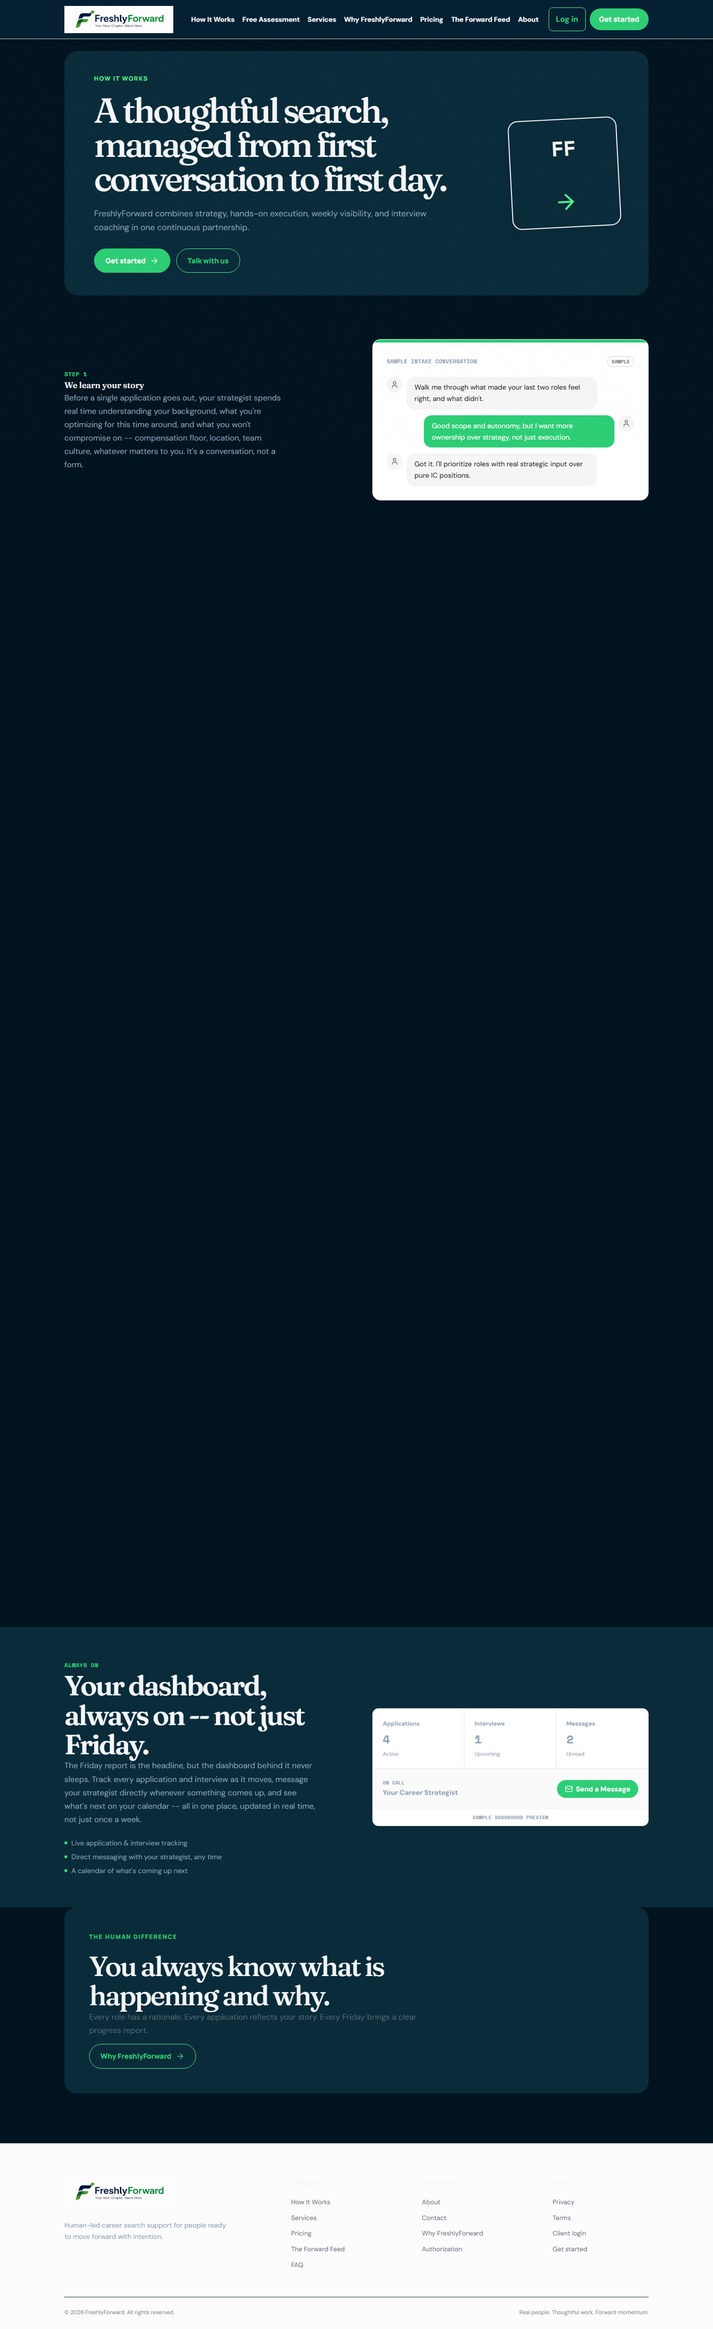
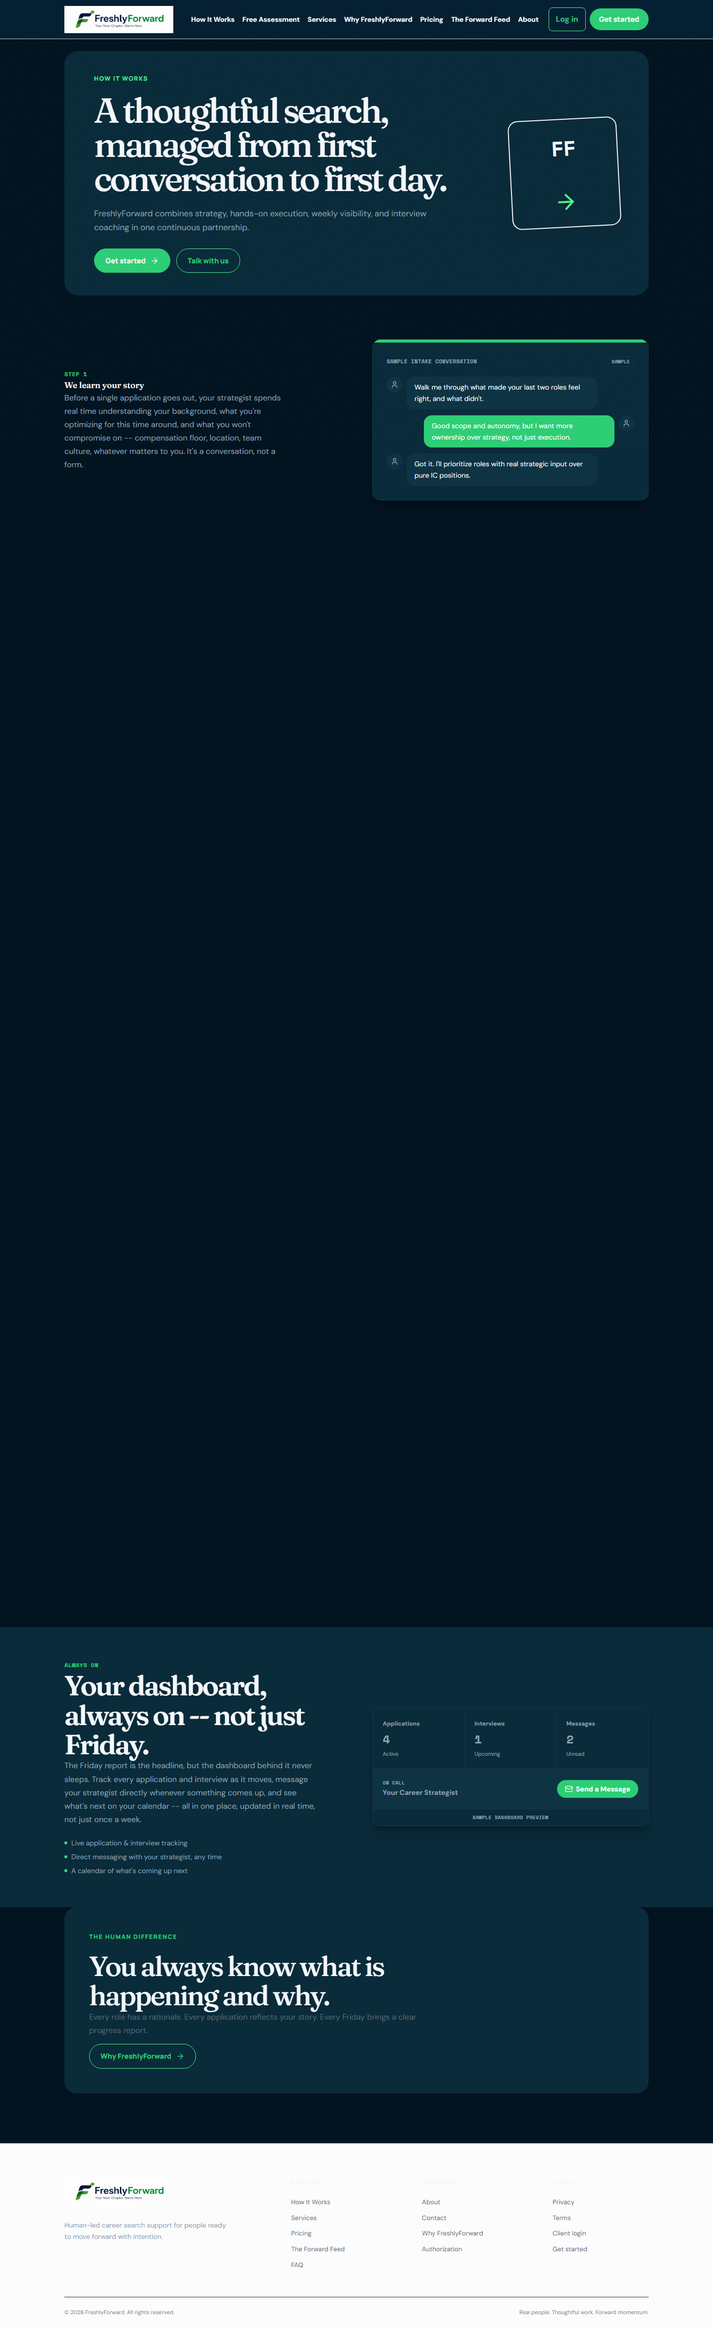
refactor(design-system): migrate preview-card family and misc components to semantic tokens (Task 16)

Changed region(s): [[0.5, 0.125, 0.9375, 0.2187], [0.5, 0.7186, 0.9375, 0.7811]]

diff --git a/src/components/FridayReportCard.tsx b/src/components/FridayReportCard.tsx
@@ -50,36 +50,36 @@ export function FridayReportCard({ report, isSample = false }: FridayReportCardP
   const statusLabel = STATUS_LABEL[report.approval_status] ?? report.approval_status
 
   return (
-    <div className="overflow-hidden rounded-2xl border border-neutral-200 bg-white shadow-xl shadow-neutral-900/5">
+    <div className="overflow-hidden rounded-2xl border border-border bg-surface-card shadow-xl shadow-black/20">
       <div className="h-1.5 bg-primary-600" aria-hidden="true" />
       <div className="p-6 sm:p-7">
         <div className="flex items-center justify-between">
-          <p className="font-mono text-[11px] font-semibold uppercase tracking-wide text-primary-700">
+          <p className="font-mono text-[11px] font-semibold uppercase tracking-wide text-primary-400">
             Friday Report
           </p>
           {isSample && (
-            <span className="rounded-full border border-neutral-300 px-2 py-0.5 font-mono text-[10px] font-semibold uppercase text-neutral-500">
+            <span className="rounded-full border border-border px-2 py-0.5 font-mono text-[10px] font-semibold uppercase text-ink-muted">
               Sample
             </span>
           )}
         </div>
-        <p className="mt-1 font-mono text-xs text-neutral-500">{formatReportDate(report.report_date)}</p>
+        <p className="mt-1 font-mono text-xs text-ink-muted">{formatReportDate(report.report_date)}</p>
 
-        <h3 className="mt-4 font-display text-xl font-semibold leading-snug text-neutral-900">
+        <h3 className="mt-4 font-display text-xl font-semibold leading-snug text-ink">
           {report.title}
         </h3>
-        <p className="mt-2 text-sm leading-relaxed text-neutral-600">{report.summary}</p>
+        <p className="mt-2 text-sm leading-relaxed text-ink-muted">{report.summary}</p>
 
-        <div className="mt-6 grid grid-cols-3 gap-3 border-t border-neutral-100 pt-5">
+        <div className="mt-6 grid grid-cols-3 gap-3 border-t border-border pt-5">
           <Stat icon={Search} label="Reviewed" value={report.opportunities_reviewed} />
           <Stat icon={FileCheck} label="Submitted" value={report.applications_submitted} />
           <Stat icon={Calendar} label="Interviews" value={report.interviews_scheduled} />
         </div>
 
-        <div className="mt-6 border-t border-neutral-100 pt-5">
+        <div className="mt-6 border-t border-border pt-5">
           <div className="flex items-center justify-between">
-            <p className="text-xs font-semibold uppercase tracking-wide text-neutral-500">Next Steps</p>
-            <span className="flex items-center gap-1.5 font-mono text-[10px] font-semibold uppercase text-primary-700">
+            <p className="text-xs font-semibold uppercase tracking-wide text-ink-muted">Next Steps</p>
+            <span className="flex items-center gap-1.5 font-mono text-[10px] font-semibold uppercase text-primary-400">
               <span className="h-1.5 w-1.5 rounded-full bg-primary-500" aria-hidden="true" />
               {statusLabel}
             </span>
@@ -87,14 +87,14 @@ export function FridayReportCard({ report, isSample = false }: FridayReportCardP
           {steps.length > 0 ? (
             <ul className="mt-3 space-y-2">
               {steps.map((step, index) => (
-                <li key={`${index}-${step}`} className="flex items-start gap-2.5 text-sm text-neutral-700">
+                <li key={`${index}-${step}`} className="flex items-start gap-2.5 text-sm text-ink">
                   <ArrowRight className="mt-0.5 h-3.5 w-3.5 flex-shrink-0 text-primary-500" aria-hidden="true" />
                   {step}
                 </li>
               ))}
             </ul>
           ) : (
-            <p className="mt-3 text-sm text-neutral-500">No next steps recorded yet.</p>
+            <p className="mt-3 text-sm text-ink-muted">No next steps recorded yet.</p>
           )}
         </div>
       </div>
@@ -114,8 +114,8 @@ function Stat({
   return (
     <div className="flex flex-col items-start gap-1">
       <Icon className="h-4 w-4 text-primary-600" aria-hidden="true" />
-      <p className="font-mono text-2xl font-bold leading-none text-neutral-900">{value}</p>
-      <p className="text-[11px] text-neutral-500">{label}</p>
+      <p className="font-mono text-2xl font-bold leading-none text-ink">{value}</p>
+      <p className="text-[11px] text-ink-muted">{label}</p>
     </div>
   )
 }

diff --git a/src/pages/HowItWorksPage.tsx b/src/pages/HowItWorksPage.tsx
@@ -147,17 +147,17 @@ export function HowItWorksPage() {
               <li className="flex items-center gap-2"><span className="h-1.5 w-1.5 rounded-full bg-primary-500" aria-hidden="true" /> A calendar of what's coming up next</li>
             </ul>
           </div>
-          <div className="overflow-hidden rounded-xl border border-neutral-200 bg-white shadow-sm">
-            <div className="grid grid-cols-3 divide-x divide-neutral-200">
-              <div className="p-5"><p className="text-xs font-semibold text-neutral-500">Applications</p><p className="mt-2 font-mono text-2xl font-bold text-neutral-900">4</p><p className="mt-1 text-[11px] text-neutral-500">Active</p></div>
-              <div className="p-5"><p className="text-xs font-semibold text-neutral-500">Interviews</p><p className="mt-2 font-mono text-2xl font-bold text-neutral-900">1</p><p className="mt-1 text-[11px] text-neutral-500">Upcoming</p></div>
-              <div className="p-5"><p className="text-xs font-semibold text-neutral-500">Messages</p><p className="mt-2 font-mono text-2xl font-bold text-neutral-900">2</p><p className="mt-1 text-[11px] text-neutral-500">Unread</p></div>
+          <div className="overflow-hidden rounded-xl border border-border bg-surface-card shadow-xl shadow-black/20">
+            <div className="grid grid-cols-3 divide-x divide-border">
+              <div className="p-5"><p className="text-xs font-semibold text-ink-muted">Applications</p><p className="mt-2 font-mono text-2xl font-bold text-ink">4</p><p className="mt-1 text-[11px] text-ink-muted">Active</p></div>
+              <div className="p-5"><p className="text-xs font-semibold text-ink-muted">Interviews</p><p className="mt-2 font-mono text-2xl font-bold text-ink">1</p><p className="mt-1 text-[11px] text-ink-muted">Upcoming</p></div>
+              <div className="p-5"><p className="text-xs font-semibold text-ink-muted">Messages</p><p className="mt-2 font-mono text-2xl font-bold text-ink">2</p><p className="mt-1 text-[11px] text-ink-muted">Unread</p></div>
             </div>
-            <div className="flex items-center justify-between border-t border-neutral-200 bg-neutral-50 p-5">
-              <div><p className="font-mono text-[10px] font-semibold uppercase tracking-wide text-neutral-500">On Call</p><p className="mt-1 text-sm font-semibold text-neutral-900">Your Career Strategist</p></div>
+            <div className="flex items-center justify-between border-t border-border bg-surface-subtle p-5">
+              <div><p className="font-mono text-[10px] font-semibold uppercase tracking-wide text-ink-muted">On Call</p><p className="mt-1 text-sm font-semibold text-ink">Your Career Strategist</p></div>
               <span className="inline-flex items-center justify-center gap-1.5 rounded-full bg-primary-600 px-4 py-2 text-sm font-semibold text-white"><Mail className="h-4 w-4" aria-hidden="true" /> Send a Message</span>
             </div>
-            <p className="border-t border-neutral-100 px-5 py-2 text-center font-mono text-[10px] font-semibold uppercase tracking-wide text-neutral-400">Sample dashboard preview</p>
+            <p className="border-t border-border px-5 py-2 text-center font-mono text-[10px] font-semibold uppercase tracking-wide text-ink-muted">Sample dashboard preview</p>
           </div>
         </div>
       </section>

diff --git a/src/components/freshFit/FreshFitDetails.tsx b/src/components/freshFit/FreshFitDetails.tsx
@@ -27,19 +27,19 @@ export function FreshFitDetails({ breakdown }: { breakdown: JobMatchScoreBreakdo
 
   return (
     <details className="mt-3">
-      <summary className="cursor-pointer text-sm font-medium text-primary-600 hover:underline">
+      <summary className="cursor-pointer text-sm font-medium text-primary-400 hover:underline">
         Why this score?
       </summary>
-      <div className="mt-3 space-y-4 border-t border-neutral-100 pt-3">
+      <div className="mt-3 space-y-4 border-t border-border pt-3">
         <div>
-          <p className="text-sm font-semibold text-neutral-900">{v2.recommendation.headline}</p>
-          <p className="text-xs text-neutral-500">{v2.recommendation.detail}</p>
+          <p className="text-sm font-semibold text-ink">{v2.recommendation.headline}</p>
+          <p className="text-xs text-ink-muted">{v2.recommendation.detail}</p>
         </div>
 
         {blockedConstraints.length > 0 && (
-          <div className="border border-warning-300 bg-warning-50 p-3">
-            <p className="text-xs font-semibold uppercase tracking-wide text-warning-700">Worth reading first</p>
-            <ul className="mt-1 space-y-1 text-xs text-warning-800">
+          <div className="border border-warning-600 bg-warning-950 p-3">
+            <p className="text-xs font-semibold uppercase tracking-wide text-warning-300">Worth reading first</p>
+            <ul className="mt-1 space-y-1 text-xs text-warning-200">
               {blockedConstraints.map((c) => (
                 <li key={c.key}>{c.reason}</li>
               ))}
@@ -51,17 +51,17 @@ export function FreshFitDetails({ breakdown }: { breakdown: JobMatchScoreBreakdo
           {v2.dimensions.map((dim) => (
             <div key={dim.key}>
               <div className="flex items-center justify-between gap-2">
-                <p className="text-xs font-semibold text-neutral-700">{dim.label}</p>
-                <span className="text-xs text-neutral-500">{STATUS_LABELS[dim.status] ?? dim.status}</span>
+                <p className="text-xs font-semibold text-ink-muted">{dim.label}</p>
+                <span className="text-xs text-ink-muted">{STATUS_LABELS[dim.status] ?? dim.status}</span>
               </div>
-              <p className="mt-0.5 text-xs text-neutral-500">{dim.explanation}</p>
+              <p className="mt-0.5 text-xs text-ink-muted">{dim.explanation}</p>
               {dim.gaps.length > 0 && (
-                <p className="mt-1 text-xs text-neutral-600">
+                <p className="mt-1 text-xs text-ink-muted">
                   <span className="font-medium">Confirmed gaps:</span> {dim.gaps.join(', ')}
                 </p>
               )}
               {dim.unknowns.length > 0 && (
-                <p className="mt-1 text-xs text-neutral-400">
+                <p className="mt-1 text-xs text-ink-muted">
                   <span className="font-medium">Not enough info to confirm:</span> {dim.unknowns.join(', ')}
                 </p>
               )}

diff --git a/src/components/SearchReadinessWidget.tsx b/src/components/SearchReadinessWidget.tsx
@@ -14,12 +14,12 @@ export function SearchReadinessWidget({ profile }: { profile: MemberProfile | nu
   const fixLink = useMemo(() => getReadinessFixLink(missing), [missing])
 
   return (
-    <div className="border border-neutral-200 bg-white p-6">
-      <div className="flex items-center gap-3 border-b border-neutral-100 pb-3">
+    <div className="border border-border bg-surface-card p-6">
+      <div className="flex items-center gap-3 border-b border-border pb-3">
         <TrendingUp className="h-5 w-5 text-primary-600" />
         <div>
-          <h3 className="font-serif text-base font-semibold text-neutral-900">Search Readiness</h3>
-          <p className="text-xs text-neutral-500">Profile completeness</p>
+          <h3 className="font-serif text-base font-semibold text-ink">Search Readiness</h3>
+          <p className="text-xs text-ink-muted">Profile completeness</p>
         </div>
       </div>
 
@@ -31,16 +31,16 @@ export function SearchReadinessWidget({ profile }: { profile: MemberProfile | nu
       {/* Missing items */}
       {missing.length > 0 ? (
         <div className="mt-6">
-          <p className="mb-3 text-xs font-semibold text-neutral-700">Complete these to improve your readiness:</p>
+          <p className="mb-3 text-xs font-semibold text-ink-muted">Complete these to improve your readiness:</p>
           <ul className="space-y-2">
             {missing.slice(0, 5).map((item) => (
-              <li key={item.field} className="flex items-start gap-2 text-sm text-neutral-600">
+              <li key={item.field} className="flex items-start gap-2 text-sm text-ink-muted">
                 <AlertCircle className="mt-0.5 h-4 w-4 flex-shrink-0 text-warning-500" />
                 <span>{item.label}</span>
               </li>
             ))}
             {missing.length > 5 && (
-              <li className="text-xs text-neutral-400">+ {missing.length - 5} more</li>
+              <li className="text-xs text-ink-muted">+ {missing.length - 5} more</li>
             )}
           </ul>
           <Link
@@ -52,9 +52,9 @@ export function SearchReadinessWidget({ profile }: { profile: MemberProfile | nu
           </Link>
         </div>
       ) : (
-        <div className="mt-6 flex items-center gap-2 border border-success-300 bg-success-50 p-3">
-          <Check className="h-5 w-5 text-success-600" />
-          <p className="text-sm text-success-700">Your profile is complete. Your Strategist has everything needed.</p>
+        <div className="mt-6 flex items-center gap-2 border border-success-600 bg-success-950 p-3">
+          <Check className="h-5 w-5 text-success-400" />
+          <p className="text-sm text-success-300">Your profile is complete. Your Strategist has everything needed.</p>
         </div>
       )}
     </div>

diff --git a/src/components/OpportunityPreviewCard.tsx b/src/components/OpportunityPreviewCard.tsx
@@ -3,8 +3,8 @@ import { Sparkles } from 'lucide-react'
 export type OpportunityStatus = 'reviewed' | 'submitted'
 
 const STATUS_CONFIG: Record<OpportunityStatus, { label: string; className: string }> = {
-  reviewed: { label: 'Reviewed', className: 'bg-neutral-100 text-neutral-700' },
-  submitted: { label: 'Submitted', className: 'bg-primary-50 text-primary-700' },
+  reviewed: { label: 'Reviewed', className: 'bg-surface-subtle text-ink-muted' },
+  submitted: { label: 'Submitted', className: 'bg-primary-950 text-primary-300' },
 }
 
 export interface OpportunityPreviewCardProps {
@@ -22,27 +22,27 @@ export function OpportunityPreviewCard({ role, company, location, fitNote, statu
   const config = STATUS_CONFIG[status]
 
   return (
-    <div className="overflow-hidden rounded-2xl border border-neutral-200 bg-white shadow-xl shadow-neutral-900/5">
+    <div className="overflow-hidden rounded-2xl border border-border bg-surface-card shadow-xl shadow-black/20">
       <div className="h-1.5 bg-primary-600" aria-hidden="true" />
       <div className="p-6 sm:p-7">
         <div className="flex items-center justify-between">
-          <p className="font-mono text-[11px] font-semibold uppercase tracking-wide text-primary-700">Opportunity</p>
-          <span className="rounded-full border border-neutral-300 px-2 py-0.5 font-mono text-[10px] font-semibold uppercase text-neutral-500">
+          <p className="font-mono text-[11px] font-semibold uppercase tracking-wide text-primary-400">Opportunity</p>
+          <span className="rounded-full border border-border px-2 py-0.5 font-mono text-[10px] font-semibold uppercase text-ink-muted">
             Sample
           </span>
         </div>
 
-        <h3 className="mt-4 font-display text-xl font-semibold leading-snug text-neutral-900">{role}</h3>
-        <p className="mt-1 text-sm text-neutral-500">
+        <h3 className="mt-4 font-display text-xl font-semibold leading-snug text-ink">{role}</h3>
+        <p className="mt-1 text-sm text-ink-muted">
           {company} &middot; {location}
         </p>
 
-        <div className="mt-5 flex items-start gap-2.5 rounded-xl bg-neutral-50 p-4 text-sm text-neutral-700">
+        <div className="mt-5 flex items-start gap-2.5 rounded-xl bg-surface-subtle p-4 text-sm text-ink">
           <Sparkles className="mt-0.5 h-4 w-4 flex-shrink-0 text-primary-600" aria-hidden="true" />
           <p>{fitNote}</p>
         </div>
 
-        <div className="mt-5 flex items-center border-t border-neutral-100 pt-5">
+        <div className="mt-5 flex items-center border-t border-border pt-5">
           <span
             className={`inline-flex items-center gap-1.5 rounded-full px-3 py-1 font-mono text-[11px] font-semibold uppercase ${config.className}`}
           >

diff --git a/src/components/ProfileEditForm.tsx b/src/components/ProfileEditForm.tsx
@@ -64,7 +64,7 @@ export function ProfileEditForm({ profile, onSave, onCancel, focusSection }: Pro
   return (
     <div className="space-y-6">
       {error && (
-        <div className="border border-error-200 bg-error-50 px-4 py-3 text-sm text-error-600">
+        <div className="border border-error-600 bg-error-950 px-4 py-3 text-sm text-error-300">
           {error}
         </div>
       )}
@@ -76,15 +76,15 @@ export function ProfileEditForm({ profile, onSave, onCancel, focusSection }: Pro
           <div
             key={section.key}
             ref={(el) => { sectionRefs.current[section.key] = el }}
-            className={`border bg-white p-6 transition-colors border-l-4 ${
-              isFocused ? 'border-l-primary-600 border-primary-200' : 'border-l-neutral-300 border-neutral-200'
+            className={`border bg-surface-card p-6 transition-colors border-l-4 ${
+              isFocused ? 'border-l-primary-600 border-primary-800' : 'border-l-border border-border'
             }`}
           >
-            <div className="mb-4 flex items-center gap-3 border-b border-neutral-100 pb-3">
+            <div className="mb-4 flex items-center gap-3 border-b border-border pb-3">
               <Icon className="h-5 w-5 text-primary-600" />
               <div>
-                <h3 className="font-serif text-base font-semibold text-neutral-900">{section.title}</h3>
-                <p className="text-xs text-neutral-500">{section.description}</p>
+                <h3 className="font-serif text-base font-semibold text-ink">{section.title}</h3>
+                <p className="text-xs text-ink-muted">{section.description}</p>
               </div>
             </div>
             <div className="space-y-5">
@@ -102,12 +102,12 @@ export function ProfileEditForm({ profile, onSave, onCancel, focusSection }: Pro
       })}
 
       {/* Sticky save bar */}
-      <div className="sticky bottom-0 z-10 flex items-center justify-end gap-3 border border-neutral-200 bg-white/95 p-4 shadow-lg backdrop-blur-md">
+      <div className="sticky bottom-0 z-10 flex items-center justify-end gap-3 border border-border bg-surface-card/95 p-4 shadow-lg backdrop-blur-md">
         <button
           type="button"
           onClick={onCancel}
           disabled={saving}
-          className="flex items-center gap-1.5 border border-neutral-300 px-4 py-2.5 text-sm font-medium text-neutral-700 transition-colors hover:bg-neutral-50 disabled:opacity-60"
+          className="flex items-center gap-1.5 border border-border px-4 py-2.5 text-sm font-medium text-ink-muted transition-colors hover:bg-surface-hover disabled:opacity-60"
         >
           <X className="h-4 w-4" />
           Cancel

diff --git a/src/components/ChatPreviewCard.tsx b/src/components/ChatPreviewCard.tsx
@@ -8,30 +8,30 @@ export interface ChatPreviewCardProps {
 }
 
 // Mirrors the real message-bubble styling from MessagesPage.tsx (same
-// rounded-2xl/px-4/py-2.5 bubble, same bg-primary-600 vs bg-neutral-100
+// rounded-2xl/px-4/py-2.5 bubble, same bg-primary-600 vs bg-surface-subtle
 // split) so this preview looks like the actual product, not an invented
 // visual language. Content is illustrative only -- never a real client
 // conversation, always labeled "Sample".
 export function ChatPreviewCard({ label, messages }: ChatPreviewCardProps) {
   return (
-    <div className="overflow-hidden rounded-2xl border border-neutral-200 bg-white shadow-xl shadow-neutral-900/5">
+    <div className="overflow-hidden rounded-2xl border border-border bg-surface-card shadow-xl shadow-black/20">
       <div className="h-1.5 bg-primary-600" aria-hidden="true" />
       <div className="p-6 sm:p-7">
         <div className="flex items-center justify-between">
-          <p className="font-mono text-[11px] font-semibold uppercase tracking-wide text-primary-700">{label}</p>
-          <span className="rounded-full border border-neutral-300 px-2 py-0.5 font-mono text-[10px] font-semibold uppercase text-neutral-500">
+          <p className="font-mono text-[11px] font-semibold uppercase tracking-wide text-primary-400">{label}</p>
+          <span className="rounded-full border border-border px-2 py-0.5 font-mono text-[10px] font-semibold uppercase text-ink-muted">
             Sample
           </span>
         </div>
         <div className="mt-5 space-y-3">
           {messages.map((message, index) => (
             <div key={index} className={`flex items-start gap-2 max-w-[85%] ${message.from === 'member' ? 'ml-auto flex-row-reverse' : ''}`}>
-              <div className="flex h-8 w-8 flex-shrink-0 items-center justify-center rounded-full bg-neutral-100">
-                <User className="h-4 w-4 text-neutral-500" aria-hidden="true" />
+              <div className="flex h-8 w-8 flex-shrink-0 items-center justify-center rounded-full bg-surface-subtle">
+                <User className="h-4 w-4 text-ink-muted" aria-hidden="true" />
               </div>
               <div
                 className={`rounded-2xl px-4 py-2.5 text-sm leading-relaxed ${
-                  message.from === 'member' ? 'bg-primary-600 text-white' : 'bg-neutral-100 text-neutral-900'
+                  message.from === 'member' ? 'bg-primary-600 text-white' : 'bg-surface-subtle text-ink'
                 }`}
               >
                 {message.text}

diff --git a/src/components/ChecklistPreviewCard.tsx b/src/components/ChecklistPreviewCard.tsx
@@ -10,18 +10,18 @@ export interface ChecklistPreviewCardProps {
 // than a conversation or a job listing.
 export function ChecklistPreviewCard({ label, items }: ChecklistPreviewCardProps) {
   return (
-    <div className="overflow-hidden rounded-2xl border border-neutral-200 bg-white shadow-xl shadow-neutral-900/5">
+    <div className="overflow-hidden rounded-2xl border border-border bg-surface-card shadow-xl shadow-black/20">
       <div className="h-1.5 bg-primary-600" aria-hidden="true" />
       <div className="p-6 sm:p-7">
         <div className="flex items-center justify-between">
-          <p className="font-mono text-[11px] font-semibold uppercase tracking-wide text-primary-700">{label}</p>
-          <span className="rounded-full border border-neutral-300 px-2 py-0.5 font-mono text-[10px] font-semibold uppercase text-neutral-500">
+          <p className="font-mono text-[11px] font-semibold uppercase tracking-wide text-primary-400">{label}</p>
+          <span className="rounded-full border border-border px-2 py-0.5 font-mono text-[10px] font-semibold uppercase text-ink-muted">
             Sample
           </span>
         </div>
         <ul className="mt-5 space-y-3">
           {items.map((item) => (
-            <li key={item} className="flex items-start gap-2.5 text-sm text-neutral-700">
+            <li key={item} className="flex items-start gap-2.5 text-sm text-ink">
               <Check className="mt-0.5 h-4 w-4 flex-shrink-0 text-primary-600" aria-hidden="true" />
               {item}
             </li>
